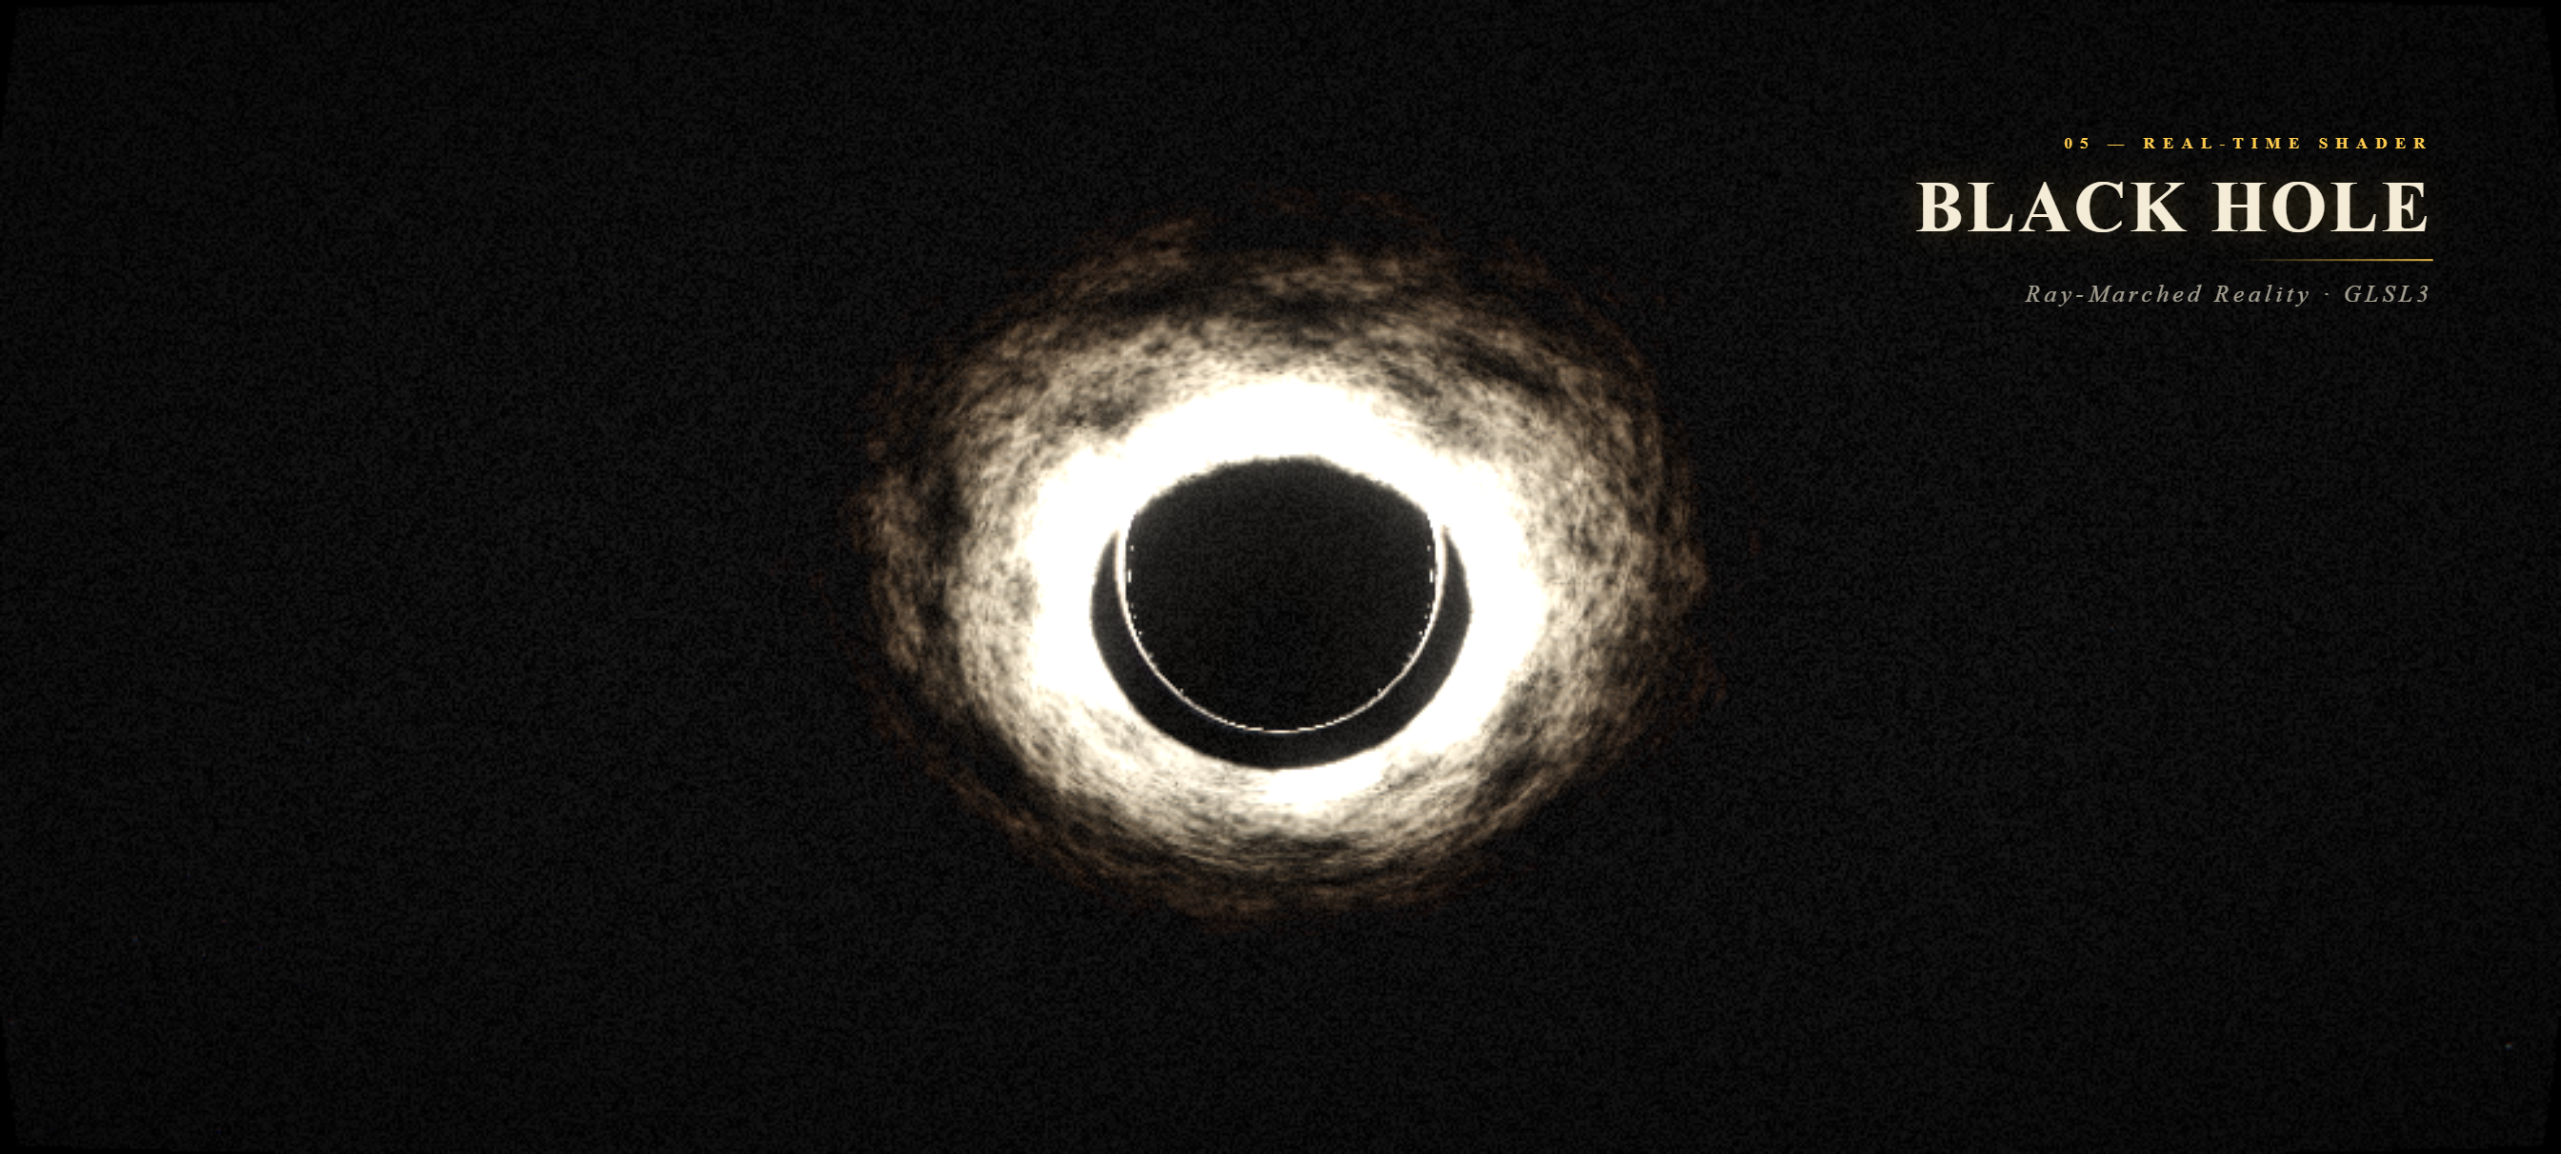
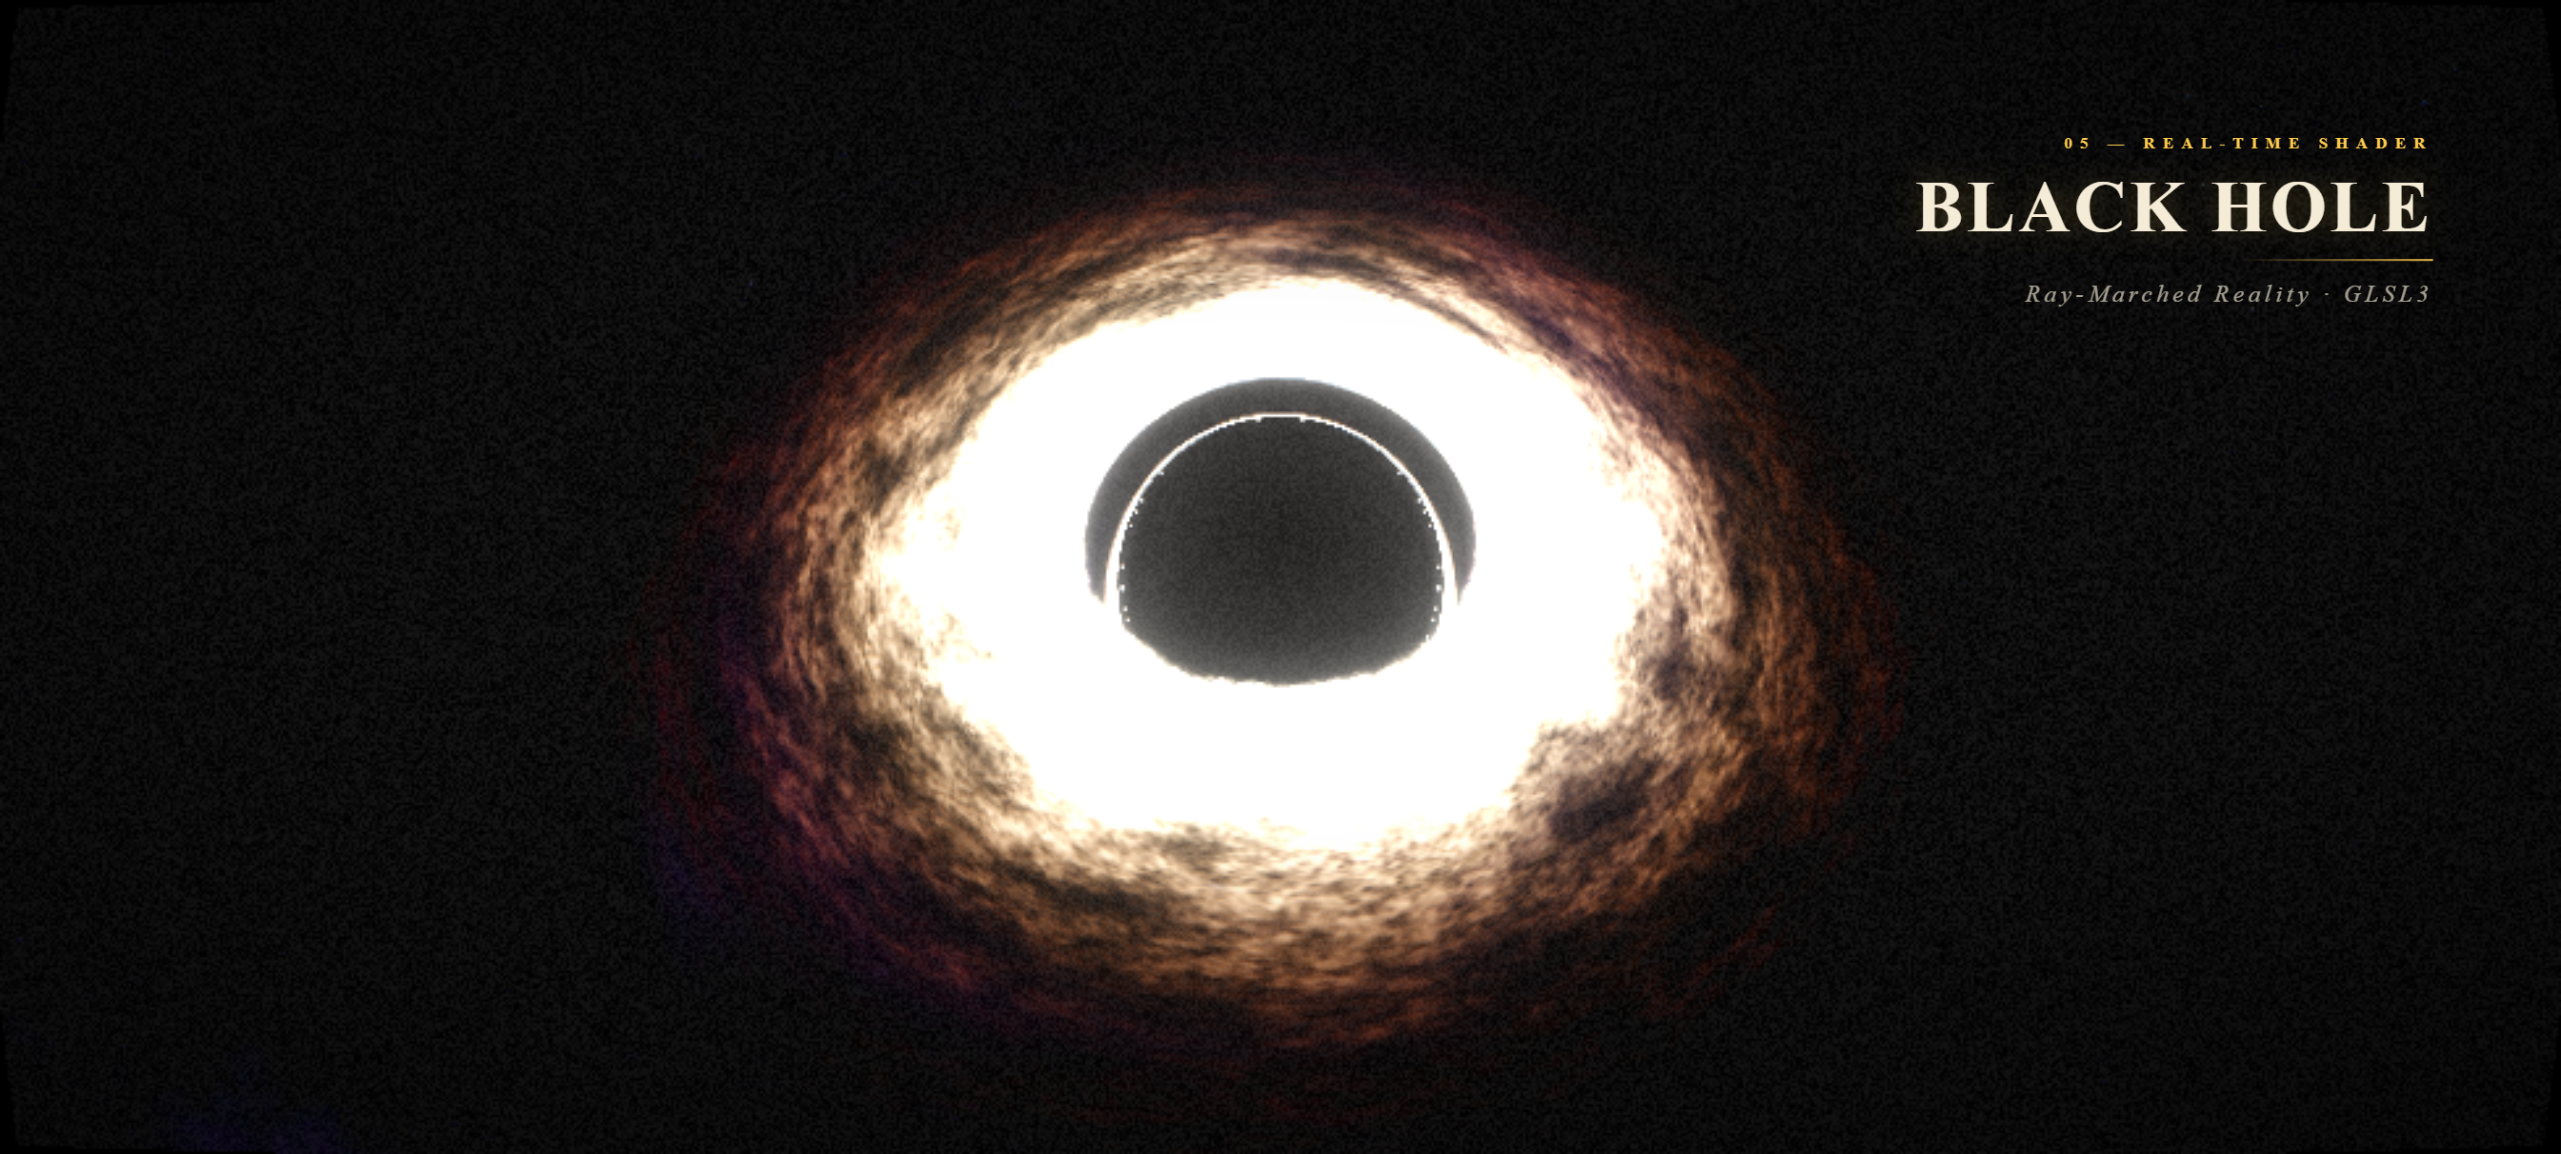
refactor(blackhole): 优化黑洞渲染视觉效果
1. 调整sepia滤镜参数降低棕灰色调，让吸积盘色彩更鲜艳
2. 增加ACES tone mapping后的曝光和饱和度增强，强化色彩层次
3. 修正天空盒和颜色贴图的色彩空间设置，避免背景过暗
4. 更新README文档说明新增的色彩增强处理
5. 新增吸积盘亮度控制参数adiskLit

Changed region(s): [[0.2811, 0.156, 0.7497, 0.9047]]

diff --git a/src/components/BlackholeScene.tsx b/src/components/BlackholeScene.tsx
@@ -388,7 +388,14 @@ const BLACKHOLE_FRAG = /* glsl */ `
     vec3 color = traceColor(pos, dir);
     // ACES Filmic tonemapping：把线性 HDR 压缩到 [0,1] LDR，
     // 避免吸积盘亮区过曝、星云暗背景被后续 sRGB 编码提亮成灰
-    fragColor.rgb = aces(color);
+    color = aces(color);
+    // === 鲜艳度增强 ===
+    // ACES 曲线会压低暗部并略微降饱和，这里补回：轻微曝光 + 饱和度提升，
+    // 让吸积盘的橙金、星云的蓝紫更浓烈
+    color *= 1.12;
+    float luma = dot(color, vec3(0.299, 0.587, 0.114));
+    color = mix(vec3(luma), color, 1.4);
+    fragColor.rgb = clamp(color, 0.0, 1.0);
     fragColor.a = 1.0;
   }
 `;
@@ -453,7 +460,10 @@ export function BlackholeScene({
 
   // 加载立方体星云天空盒（顺序：px,nx,py,ny,pz,nz = right,left,top,bottom,front,back）
   // 与吸积盘颜色贴图：用 loader.load() 同步返回纹理对象（图片异步上传，
-  // 数据就绪后 Three.js 自动上传 GPU），避免 useLoader 的泛型推断问题
+  // 数据就绪后 Three.js 自动上传 GPU），避免 useLoader 的泛型推断问题。
+  // 注意：colorSpace 保持 LinearSRGBColorSpace（默认）——与原项目 stb_image
+  // 加载贴图直接当线性值用一致。若设 SRGBColorSpace，GPU 会做 sRGB→线性解码，
+  // 暗部像素（星云 0.1）被压到线性 0.006，导致背景几乎全黑。
   const { galaxy, colorMap } = useMemo(() => {
     const cubeLoader = new THREE.CubeTextureLoader();
     const galaxyTex = cubeLoader.load([
@@ -464,11 +474,9 @@ export function BlackholeScene({
       '/asset/textures/blackhole/skybox_nebula_dark/front.png',
       '/asset/textures/blackhole/skybox_nebula_dark/back.png',
     ]);
-    galaxyTex.colorSpace = THREE.SRGBColorSpace;
     const mapTex = new THREE.TextureLoader().load(
       '/asset/textures/blackhole/color_map.png'
     );
-    mapTex.colorSpace = THREE.SRGBColorSpace;
     return { galaxy: galaxyTex, colorMap: mapTex };
   }, []);
 

diff --git a/src/KiraFilmDemo.tsx b/src/KiraFilmDemo.tsx
@@ -2016,12 +2016,14 @@ function BlackholeDetailPage({
   // 若沿用默认 bloom（threshold 0.9 / radius 0.3）会让吸积盘辉光过强过糊。
   // 这里提高阈值（0.85）只让最亮的吸积盘中心参与辉光、收紧半径（0.4）缩小扩散，
   // 并降低强度（0.3），让辉光呈"精致的光晕"而非整片过曝。
+  // sepiaIntensity 降到 0.05：sepia 会把颜色压成棕灰，去掉它让吸积盘更鲜艳。
   const blackholeFilmParams = useMemo<FilmFXParams>(
     () => ({
       ...DEFAULT_FILM_PARAMS,
       bloomIntensity: 0.3,
       bloomThreshold: 0.85,
       bloomRadius: 0.4,
+      sepiaIntensity: 0.05,
     }),
     []
   );
@@ -2128,6 +2130,7 @@ function BlackholeDetailPage({
             <BlackholeScene
               mouseRef={mouseRef}
               zoomProgressRef={blackholeScrollProgress}
+              adiskLit={0.9}
             />
           </Suspense>
           <FilmPostProcessing params={blackholeFilmParams} />

diff --git a/README.md b/README.md
@@ -215,7 +215,7 @@ z-40  WebGL Canvas（.canvas-wrapper，3D 内容，pointer-events: none）
 | 无限滑动作品柜 | 移植 ArikaShow `photobox`：28 张卡片 GSAP 拖拽，越界瞬间 `mov_x/mov_y ±容器尺寸` 回绕形成无限循环，基准宽度 1440px 整体缩放适配 |
 | 格子间办公 | 8 个面对面格子间（bank/trophy 等 GLB），纯黑背景 + 锐利聚光灯，独立滚动容器驱动相机从高空俯视降落至桌面 |
 | 电话机联系 | `ContactScene` 独立 Canvas，滚动驱动相机从 y=18 降至电话机水平，`ContactPostProcessing` 鱼眼/色散随进度增强 |
-| 光线步进黑洞 | 移植 `blackhole_main.frag`（GLSL3）：300 步 ray march + 角动量守恒近似引力透镜 + Simplex 3D 噪声吸积盘（color_map 颜色映射）+ 星云立方体天空盒 + **ACES Filmic tonemapping**（Narkowicz 曲线），`FilmPostProcessing` Bloom 辉光；滚动平滑缩放 fovScale 拉近镜头 |
+| 光线步进黑洞 | 移植 `blackhole_main.frag`（GLSL3）：300 步 ray march + 角动量守恒近似引力透镜 + Simplex 3D 噪声吸积盘（color_map 颜色映射）+ 星云立方体天空盒 + **ACES Filmic tonemapping + 饱和度/曝光增强**，`FilmPostProcessing` Bloom 辉光；滚动平滑缩放 fovScale 拉近镜头 |
 
 每个详情页都用独立滚动容器 + wheel 拦截（`passive:false` + `preventDefault`）闭环滚动状态，滚到顶继续上滑才冒泡退出，并带滞回阈值避免边界抖动。
 
